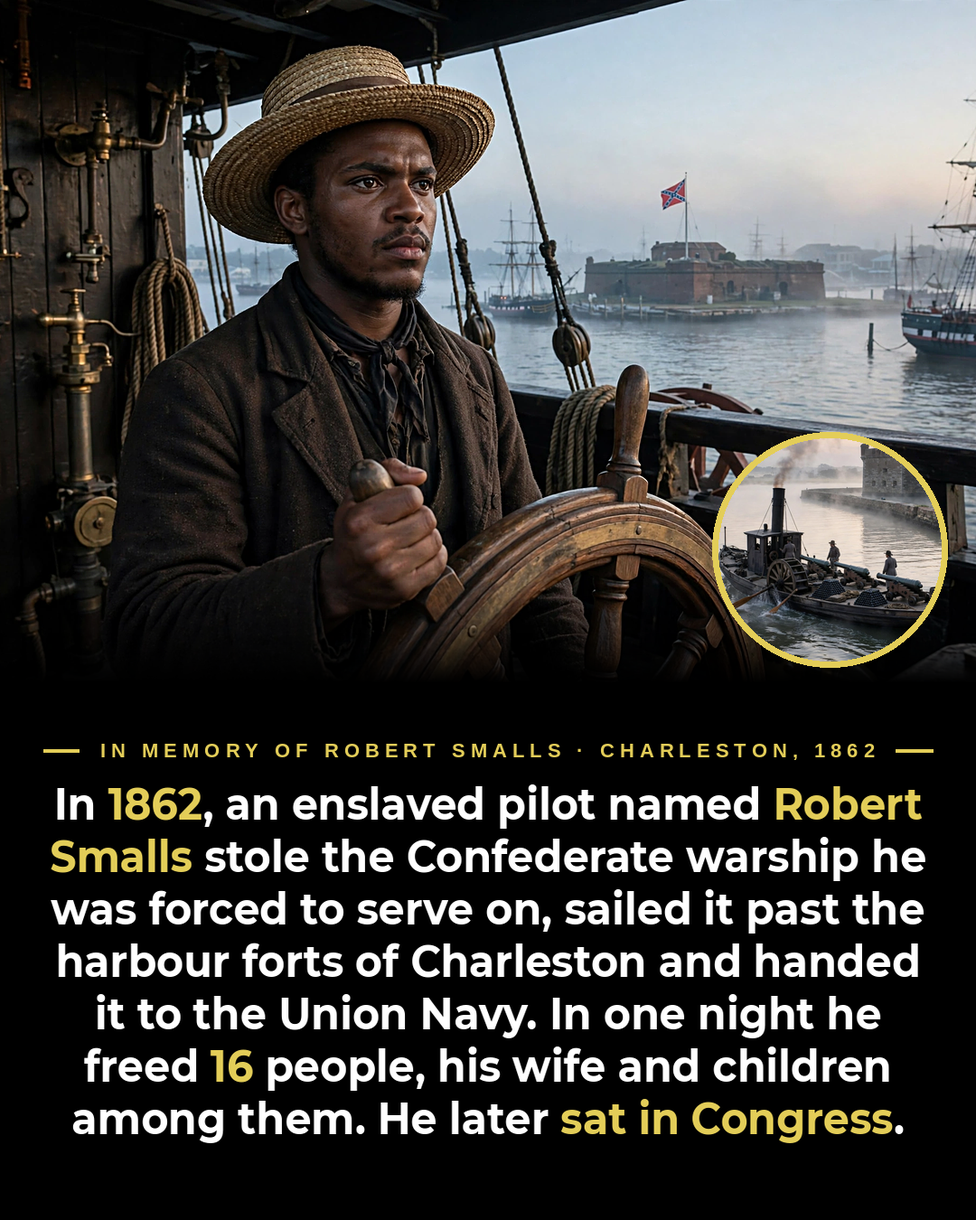
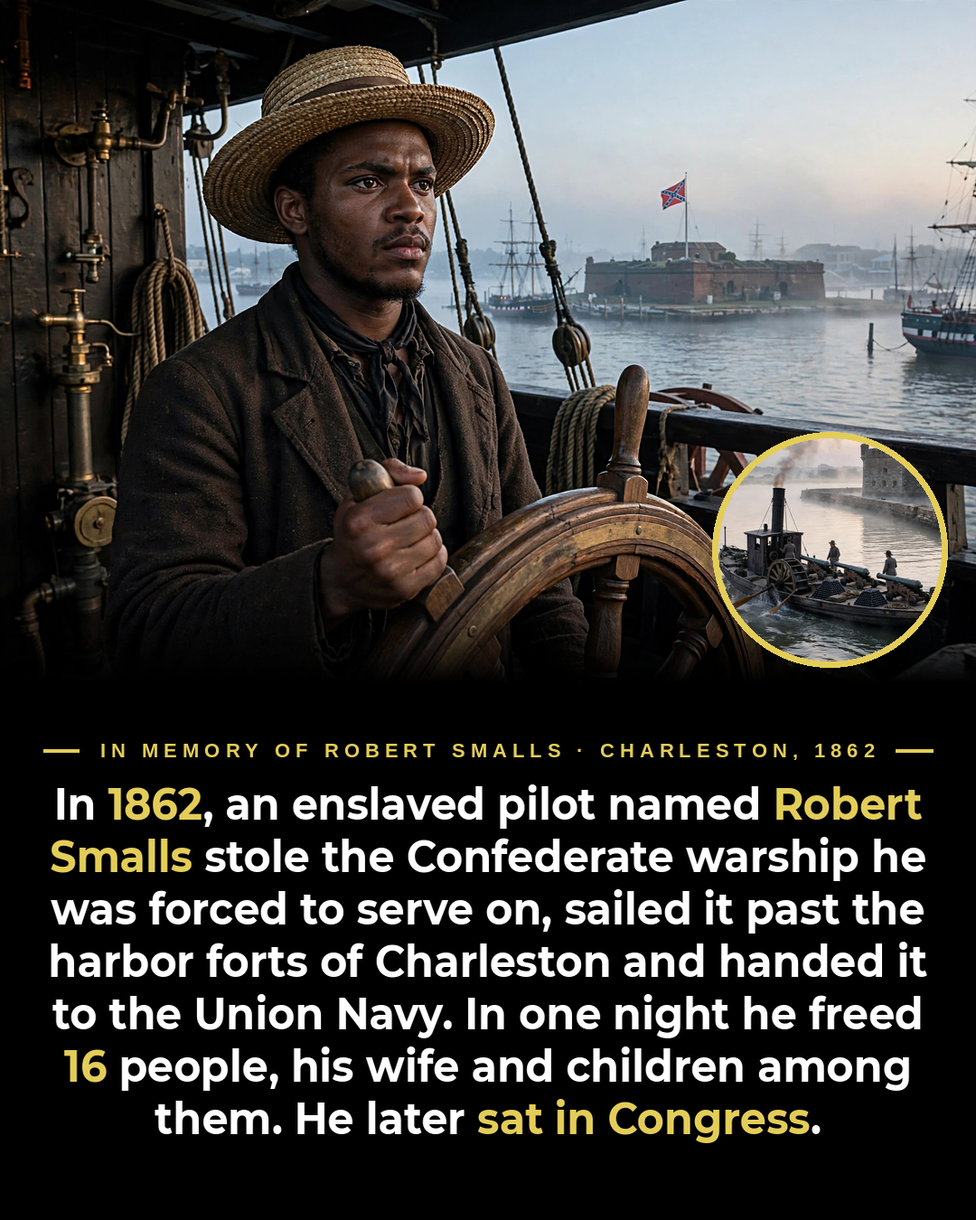
Short post texts, long captions removed

Changed region(s): [[0.0306, 0.7778, 0.9472, 0.9333]]

diff --git a/index.html b/index.html
@@ -173,7 +173,7 @@
 <div id="toast">Caption copied</div>
 
 <script>
-var POSTS = [{"id": "post-21", "file": "post-21.png", "title": "The Alamo, 1836", "story": "On the morning of 23 February 1836, lookouts on the walls of the Alamo mission in San Antonio saw dust on the horizon. General Antonio Lopez de Santa Anna had arrived with his Mexican army, and the siege of the Alamo had begun. Inside the old Spanish mission stood fewer than 200 Texian and Tejano volunteers under two young commanders, William Travis and James Bowie, and among them the famous frontiersman Davy Crockett, who had arrived from Tennessee with a dozen men.\n\nTravis knew no help was coming in time. On 24 February he wrote the letter that became one of the most famous in American history, addressed \"To the People of Texas and All Americans in the World\". He promised victory or death, and he asked for reinforcements. Only 32 men from the town of Gonzales managed to slip through the Mexican lines to join him.\n\nFor 13 days the Mexican guns pounded the crumbling walls. The defenders answered with their rifles, and by most accounts they killed or wounded 400 to 600 of Santa Anna's men. Then, before dawn on 6 March, the Mexican army stormed the walls in four columns. After repelling two attacks, the Texians were overwhelmed. Within an hour, every defender inside was dead, including Travis, Bowie and Crockett. The women and children were spared.\n\nSanta Anna believed the slaughter would crush the rebellion. He was wrong. The names of the dead became a battle cry, and six weeks later, on 21 April, Sam Houston's army charged the Mexican camp at San Jacinto shouting \"Remember the Alamo!\" In 18 minutes the battle was over, Santa Anna was captured, and Texas was free. The men who died at the Alamo had bought that victory with their lives."}, {"id": "post-22", "file": "post-22.png", "title": "Sacagawea and the Lewis and Clark Expedition, 1805", "story": "In the winter of 1804, at a trading post called Fort Mandan on the upper Missouri River, two American explorers made the best decision of their expedition. Meriwether Lewis and William Clark had been sent by President Thomas Jefferson to find a way across the continent to the Pacific Ocean, and they needed someone who could talk to the Shoshone people and buy horses for the crossing of the Rocky Mountains. They hired a French-Canadian fur trader named Toussaint Charbonneau, and with him came his young Shoshone wife, Sacagawea. She was about sixteen years old, and she was pregnant.\n\nOn 11 February 1805, Sacagawea gave birth to a baby boy, Jean Baptiste, whom the men nicknamed Little Pomp. Two months later, on 7 April, the expedition set out up the Missouri in canoes, and Sacagawea went with them, her baby strapped to her back. Over the months that followed she proved herself again and again. She found edible plants when the men were hungry, she made moccasins and clothing, and when a canoe overturned she calmly saved the journals and instruments while the men panicked. Because a woman and a baby travelled with the party, the tribes they met knew at once that this was not a war party, and they were welcomed instead of attacked.\n\nIn the mountains, her knowledge saved the expedition a second time. She recognised the country of her childhood, she found the Shoshone and persuaded them to sell horses, and she guided the party through the passes to the Pacific, which they reached in November 1805. They spent the winter at the coast and returned to Fort Mandan in August 1806, having travelled more than 7,000 miles in all. Sacagawea had carried her son about 4,500 of those miles. Without her, the expedition that mapped America might never have come home."}, {"id": "post-23", "file": "post-23.png", "title": "Desmond Doss at Hacksaw Ridge, 1945", "story": "He went to war refusing to carry a gun, and he saved 75 men in a single day.\n\nDesmond Doss was a skinny Seventh-day Adventist from Lynchburg, Virginia, who believed the commandment \"Thou shalt not kill\" applied to him even in uniform. He could have stayed home, because his shipyard job offered him a deferment, but he felt called to serve, so he enlisted as a medic, the one job where he could save lives instead of taking them.\n\nThe Army did not know what to do with him. In training, men threw shoes at him while he prayed, and officers tried to force him out. He would not touch a weapon and he would not work on his Saturday Sabbath, but he never complained and he never gave in.\n\nIn April 1945 his unit, the 307th Infantry, was ordered up a sheer 400-foot cliff on Okinawa called the Maeda Escarpment, known to the men as Hacksaw Ridge. At the top, Japanese fire cut the company to pieces and the order came to retreat. Everyone went down the cargo nets except Doss. He stayed on that fire-swept plateau alone with the wounded.\n\nFor the next twelve hours he crawled from man to man under shell and machine-gun fire, dragged each one to the cliff edge and lowered him to safety in a rope litter, one at a time. Between rescues he prayed the same prayer: \"Lord, please help me get one more.\" By nightfall he had brought down 75 men, including soldiers who had once mocked him.\n\nDays later he was badly wounded himself, and gave up his own stretcher to a man he believed was hurt worse.\n\nOn 12 October 1945, President Harry Truman placed the Medal of Honor around his neck. Doss was the first conscientious objector in American history to receive it. He had proved that a man does not need a weapon to be the bravest soldier on the field.\n\nHad you ever heard of the soldier who saved 75 men without firing a single shot?"}, {"id": "post-24", "file": "post-24.png", "title": "Robert Smalls Steals a Confederate Warship, 1862", "story": "He stole a Confederate warship before breakfast, and freed everyone he loved.\n\nRobert Smalls was born enslaved in Beaufort, South Carolina, in 1839. Sent to Charleston at twelve to hire out his labour, he kept just one dollar of the sixteen he earned, and he fell in love with the sea. By 1861 he was the most trusted pilot in Charleston Harbor, and he was still property. He and his wife Hannah had tried to buy their family's freedom, but the price of 800 dollars was far beyond what they could save.\n\nThen the Civil War gave him another way. Smalls was put to work aboard the Planter, a Confederate transport steamer carrying guns between the harbour forts. He learned every signal, every checkpoint, every channel. And he waited.\n\nIn the early hours of 13 May 1862, the ship's white officers broke the rules and spent the night ashore. Smalls put on the captain's straw hat, gathered the enslaved crew, and steamed quietly to another wharf, where Hannah, their children and the crew's families were hiding. Then he did the boldest thing of all: he sailed straight through the harbour, giving the correct whistle signals at every fort, including mighty Fort Sumter, whose guns never suspected a thing.\n\nOutside the harbour waited the Union blockade. Smalls struck the Confederate flags, raised a white bed sheet, and surrendered the Planter, with its guns, its ammunition and its code book, to the USS Onward. In one night, 16 enslaved people became free.\n\nThe North made him a hero. He met President Lincoln, piloted Union ships for the rest of the war, and in December 1863 took command of the Planter as the first Black captain of a United States vessel. After the war he bought the very house in Beaufort where he had been enslaved, served in the United States Congress, and wrote the South Carolina law that created the first free public school system in America.\n\nThe man they had owned ended up owning the house, and helping to run the country.\n\nWhich part of his story surprises you more, the stolen warship or the seat in Congress?"}, {"id": "post-25", "file": "post-25.png", "title": "Ruby Bridges Walks to School, 1960", "story": "She was six years old, and it took four federal marshals to walk her to school.\n\nOn the morning of 14 November 1960, Ruby Bridges put on her best white dress and walked up the steps of William Frantz Elementary School in New Orleans. She was the first Black child to attend an all-white elementary school in the South, and an angry crowd was waiting behind the barricades, shouting and waving signs. Ruby thought it was Mardi Gras.\n\nShe spent her first day sitting in the principal's office while white parents stormed in and pulled their own children out, one classroom after another, until the school was empty. On the second day, a young teacher from Boston named Barbara Henry took Ruby into an empty classroom, and for the entire school year that classroom held exactly two people. Every other teacher had refused to teach her.\n\nFor a year the marshals walked her past the same crowds every morning. One woman threatened to poison her, so Ruby was allowed to eat only food she brought from home. Another woman held up a Black doll in a tiny coffin. Ruby prayed on the school steps, not for herself, but for the crowd, because she said they needed it.\n\nHer family paid for that walk. Her father lost his job at the gas station. The local grocery store refused to sell them food. Her grandparents were thrown off the land they farmed in Mississippi. Through all of it, Ruby never missed a single day of school.\n\nThe next year the crowds were gone, the classrooms filled again, and Ruby simply went to school like any other child. Norman Rockwell turned her walk into one of the most famous paintings in America, The Problem We All Live With.\n\nShe grew up, raised four sons, and founded the Ruby Bridges Foundation to teach children tolerance. In 1960, the bravest person in New Orleans weighed about forty pounds and carried her own schoolbooks.\n\nWere you ever taught her story when you were in school?"}, {"id": "post-26", "file": "post-26.png", "title": "Alvin York in the Argonne Forest, 1918", "story": "\"Well, York,\" his general said, \"I hear you have captured the whole German army.\" York shook his head. \"No sir. I got only 132.\"\n\nAlvin York was a dirt-poor Tennessee farm boy, a hard-drinking brawler who found religion and was then drafted into a war he was not sure his faith allowed him to fight. His request to be excused from combat as a conscientious objector was denied, and after long talks with his captain and long nights with his Bible, he decided he would go.\n\nOn 8 October 1918, in the Argonne Forest in France, Corporal York was one of 17 men sent behind German lines to silence the machine guns that were shredding their regiment. The patrol surprised a group of Germans and took them prisoner, and then the hillside erupted. Machine-gun fire killed six Americans and wounded three, and suddenly York, a crack shot who had hunted turkeys in the Tennessee hills, was the senior man left standing.\n\nWhat he did next sounds invented. Standing in the open, he picked off the German gunners one by one, every time a head rose above the trench. When six Germans charged him with fixed bayonets, he drew his pistol and stopped all six. The German commander, who had emptied his own pistol at York without hitting him once, walked out and surrendered his entire position.\n\nYork and his seven surviving men marched 132 prisoners back to the American lines, collecting still more along the way. He had killed at least 25 enemy soldiers and silenced some 35 machine guns, and he had opened the way for his regiment to advance.\n\nHe was promoted to sergeant on the spot, and later received the Medal of Honor from General Pershing himself. Back home he stayed the same quiet man, using his fame to build a school for the mountain children of Tennessee.\n\nDo you believe one man really did all of that in a single morning?"}, {"id": "post-27", "file": "post-27.png", "title": "Charity Adams and the 6888th Battalion, 1945", "story": "Seventeen million letters were sitting in English warehouses, and some soldiers had not heard from home in two years.\n\nBy early 1945, the Army's mail system in Europe had collapsed under its own weight. Mountains of letters and parcels, an estimated 17 million pieces, were stacked to the rafters in Birmingham, addressed to men who kept moving with the front. Morale was sinking with every missing letter. The Army's answer was a brand-new unit that many of its own officers did not believe in: the 6888th Central Postal Directory Battalion, 855 Black women of the Women's Army Corps, commanded by a 26-year-old major from South Carolina named Charity Adams, the first Black woman officer in the Corps.\n\nThey were given six months to clear the backlog. Adams put her women on three shifts a day, seven days a week, working through the night in cold, dim warehouses. They built a card index of seven million names to untangle the thousands of soldiers who shared the same name, tracked down men who had been wounded, moved or killed, and sent the mail on its way. Their motto said everything: \"No mail, low morale.\"\n\nThey finished Birmingham in three months, half the time allowed. Then the Army sent them to Rouen, in France, where another mountain of undelivered mail was waiting, and they cleared that too.\n\nThere was no parade when they came home in 1946. The unit was quietly disbanded, and for decades almost nobody knew their names. Charity Adams rose to lieutenant colonel, the highest-ranking Black woman in the Army of her time, and spent the rest of her life in education and service.\n\nRecognition finally arrived: a monument at Fort Leavenworth, a Meritorious Unit Commendation in 2019, and the Congressional Gold Medal. The women who carried an army's heart in their hands had waited more than seventy years to be thanked.\n\nHad you ever heard of the 6888th before today?"}];
+var POSTS = [{"id": "post-21", "file": "post-21.png", "title": "The Alamo, 1836", "story": "On the morning of 23 February 1836, lookouts on the walls of the Alamo mission in San Antonio saw dust on the horizon. General Antonio Lopez de Santa Anna had arrived with his Mexican army, and the siege of the Alamo had begun. Inside the old Spanish mission stood fewer than 200 Texian and Tejano volunteers under two young commanders, William Travis and James Bowie, and among them the famous frontiersman Davy Crockett, who had arrived from Tennessee with a dozen men.\n\nTravis knew no help was coming in time. On 24 February he wrote the letter that became one of the most famous in American history, addressed \"To the People of Texas and All Americans in the World\". He promised victory or death, and he asked for reinforcements. Only 32 men from the town of Gonzales managed to slip through the Mexican lines to join him.\n\nFor 13 days the Mexican guns pounded the crumbling walls. The defenders answered with their rifles, and by most accounts they killed or wounded 400 to 600 of Santa Anna's men. Then, before dawn on 6 March, the Mexican army stormed the walls in four columns. After repelling two attacks, the Texians were overwhelmed. Within an hour, every defender inside was dead, including Travis, Bowie and Crockett. The women and children were spared.\n\nSanta Anna believed the slaughter would crush the rebellion. He was wrong. The names of the dead became a battle cry, and six weeks later, on 21 April, Sam Houston's army charged the Mexican camp at San Jacinto shouting \"Remember the Alamo!\" In 18 minutes the battle was over, Santa Anna was captured, and Texas was free. The men who died at the Alamo had bought that victory with their lives."}, {"id": "post-22", "file": "post-22.png", "title": "Sacagawea and the Lewis and Clark Expedition, 1805", "story": "In the winter of 1804, at a trading post called Fort Mandan on the upper Missouri River, two American explorers made the best decision of their expedition. Meriwether Lewis and William Clark had been sent by President Thomas Jefferson to find a way across the continent to the Pacific Ocean, and they needed someone who could talk to the Shoshone people and buy horses for the crossing of the Rocky Mountains. They hired a French-Canadian fur trader named Toussaint Charbonneau, and with him came his young Shoshone wife, Sacagawea. She was about sixteen years old, and she was pregnant.\n\nOn 11 February 1805, Sacagawea gave birth to a baby boy, Jean Baptiste, whom the men nicknamed Little Pomp. Two months later, on 7 April, the expedition set out up the Missouri in canoes, and Sacagawea went with them, her baby strapped to her back. Over the months that followed she proved herself again and again. She found edible plants when the men were hungry, she made moccasins and clothing, and when a canoe overturned she calmly saved the journals and instruments while the men panicked. Because a woman and a baby travelled with the party, the tribes they met knew at once that this was not a war party, and they were welcomed instead of attacked.\n\nIn the mountains, her knowledge saved the expedition a second time. She recognised the country of her childhood, she found the Shoshone and persuaded them to sell horses, and she guided the party through the passes to the Pacific, which they reached in November 1805. They spent the winter at the coast and returned to Fort Mandan in August 1806, having travelled more than 7,000 miles in all. Sacagawea had carried her son about 4,500 of those miles. Without her, the expedition that mapped America might never have come home."}, {"id": "post-23", "file": "post-23.png", "title": "Desmond Doss at Hacksaw Ridge, 1945", "story": "He refused to carry a gun. Then he saved 75 men in one day. Desmond Doss stayed alone on a cliff in Okinawa while everyone else retreated, dragging wounded men to the edge and lowering them down by rope, one by one. He never fired a single shot. Had you ever heard of him?"}, {"id": "post-24", "file": "post-24.png", "title": "Robert Smalls Steals a Confederate Warship, 1862", "story": "He stole a Confederate warship before breakfast and freed everyone he loved. In 1862, enslaved pilot Robert Smalls took the Planter, sailed it past Fort Sumter, and handed it to the Union Navy. Sixteen people woke up free that morning. He later sat in Congress. Which part surprises you more?"}, {"id": "post-25", "file": "post-25.png", "title": "Ruby Bridges Walks to School, 1960", "story": "She was six years old, and it took four federal marshals to walk her to school. In 1960, Ruby Bridges walked past screaming crowds into an empty school in New Orleans and learned alone for a whole year. She never missed a single day. Were you ever taught her story in school?"}, {"id": "post-26", "file": "post-26.png", "title": "Alvin York in the Argonne Forest, 1918", "story": "\"I hear you captured the whole German army.\" \"No sir. I got only 132.\" In 1918, Tennessee farm boy Alvin York stood alone against a hill of machine guns in the Argonne Forest, and 132 enemy soldiers surrendered to him. Do you believe one man really did that in a single morning?"}, {"id": "post-27", "file": "post-27.png", "title": "Charity Adams and the 6888th Battalion, 1945", "story": "17 million letters were stuck in warehouses, and some soldiers had not heard from home in two years. In 1945, 855 Black women of the 6888th Battalion, led by Major Charity Adams, cleared the whole backlog in three months, half the time allowed. Had you ever heard of them?"}];
 var LS_KEY = 'us-history-tool-v1';
 var state = { done: {}, copies: {}, deleted: {} };
 

diff --git a/texts.html b/texts.html
@@ -105,7 +105,7 @@
 <div id="toast">Text copied</div>
 
 <script>
-var TEXTS = [{"id": "post-23", "title": "Desmond Doss at Hacksaw Ridge, 1945", "story": "He went to war refusing to carry a gun, and he saved 75 men in a single day.\n\nDesmond Doss was a skinny Seventh-day Adventist from Lynchburg, Virginia, who believed the commandment \"Thou shalt not kill\" applied to him even in uniform. He could have stayed home, because his shipyard job offered him a deferment, but he felt called to serve, so he enlisted as a medic, the one job where he could save lives instead of taking them.\n\nThe Army did not know what to do with him. In training, men threw shoes at him while he prayed, and officers tried to force him out. He would not touch a weapon and he would not work on his Saturday Sabbath, but he never complained and he never gave in.\n\nIn April 1945 his unit, the 307th Infantry, was ordered up a sheer 400-foot cliff on Okinawa called the Maeda Escarpment, known to the men as Hacksaw Ridge. At the top, Japanese fire cut the company to pieces and the order came to retreat. Everyone went down the cargo nets except Doss. He stayed on that fire-swept plateau alone with the wounded.\n\nFor the next twelve hours he crawled from man to man under shell and machine-gun fire, dragged each one to the cliff edge and lowered him to safety in a rope litter, one at a time. Between rescues he prayed the same prayer: \"Lord, please help me get one more.\" By nightfall he had brought down 75 men, including soldiers who had once mocked him.\n\nDays later he was badly wounded himself, and gave up his own stretcher to a man he believed was hurt worse.\n\nOn 12 October 1945, President Harry Truman placed the Medal of Honor around his neck. Doss was the first conscientious objector in American history to receive it. He had proved that a man does not need a weapon to be the bravest soldier on the field.\n\nHad you ever heard of the soldier who saved 75 men without firing a single shot?"}, {"id": "post-24", "title": "Robert Smalls Steals a Confederate Warship, 1862", "story": "He stole a Confederate warship before breakfast, and freed everyone he loved.\n\nRobert Smalls was born enslaved in Beaufort, South Carolina, in 1839. Sent to Charleston at twelve to hire out his labour, he kept just one dollar of the sixteen he earned, and he fell in love with the sea. By 1861 he was the most trusted pilot in Charleston Harbor, and he was still property. He and his wife Hannah had tried to buy their family's freedom, but the price of 800 dollars was far beyond what they could save.\n\nThen the Civil War gave him another way. Smalls was put to work aboard the Planter, a Confederate transport steamer carrying guns between the harbour forts. He learned every signal, every checkpoint, every channel. And he waited.\n\nIn the early hours of 13 May 1862, the ship's white officers broke the rules and spent the night ashore. Smalls put on the captain's straw hat, gathered the enslaved crew, and steamed quietly to another wharf, where Hannah, their children and the crew's families were hiding. Then he did the boldest thing of all: he sailed straight through the harbour, giving the correct whistle signals at every fort, including mighty Fort Sumter, whose guns never suspected a thing.\n\nOutside the harbour waited the Union blockade. Smalls struck the Confederate flags, raised a white bed sheet, and surrendered the Planter, with its guns, its ammunition and its code book, to the USS Onward. In one night, 16 enslaved people became free.\n\nThe North made him a hero. He met President Lincoln, piloted Union ships for the rest of the war, and in December 1863 took command of the Planter as the first Black captain of a United States vessel. After the war he bought the very house in Beaufort where he had been enslaved, served in the United States Congress, and wrote the South Carolina law that created the first free public school system in America.\n\nThe man they had owned ended up owning the house, and helping to run the country.\n\nWhich part of his story surprises you more, the stolen warship or the seat in Congress?"}, {"id": "post-25", "title": "Ruby Bridges Walks to School, 1960", "story": "She was six years old, and it took four federal marshals to walk her to school.\n\nOn the morning of 14 November 1960, Ruby Bridges put on her best white dress and walked up the steps of William Frantz Elementary School in New Orleans. She was the first Black child to attend an all-white elementary school in the South, and an angry crowd was waiting behind the barricades, shouting and waving signs. Ruby thought it was Mardi Gras.\n\nShe spent her first day sitting in the principal's office while white parents stormed in and pulled their own children out, one classroom after another, until the school was empty. On the second day, a young teacher from Boston named Barbara Henry took Ruby into an empty classroom, and for the entire school year that classroom held exactly two people. Every other teacher had refused to teach her.\n\nFor a year the marshals walked her past the same crowds every morning. One woman threatened to poison her, so Ruby was allowed to eat only food she brought from home. Another woman held up a Black doll in a tiny coffin. Ruby prayed on the school steps, not for herself, but for the crowd, because she said they needed it.\n\nHer family paid for that walk. Her father lost his job at the gas station. The local grocery store refused to sell them food. Her grandparents were thrown off the land they farmed in Mississippi. Through all of it, Ruby never missed a single day of school.\n\nThe next year the crowds were gone, the classrooms filled again, and Ruby simply went to school like any other child. Norman Rockwell turned her walk into one of the most famous paintings in America, The Problem We All Live With.\n\nShe grew up, raised four sons, and founded the Ruby Bridges Foundation to teach children tolerance. In 1960, the bravest person in New Orleans weighed about forty pounds and carried her own schoolbooks.\n\nWere you ever taught her story when you were in school?"}, {"id": "post-26", "title": "Alvin York in the Argonne Forest, 1918", "story": "\"Well, York,\" his general said, \"I hear you have captured the whole German army.\" York shook his head. \"No sir. I got only 132.\"\n\nAlvin York was a dirt-poor Tennessee farm boy, a hard-drinking brawler who found religion and was then drafted into a war he was not sure his faith allowed him to fight. His request to be excused from combat as a conscientious objector was denied, and after long talks with his captain and long nights with his Bible, he decided he would go.\n\nOn 8 October 1918, in the Argonne Forest in France, Corporal York was one of 17 men sent behind German lines to silence the machine guns that were shredding their regiment. The patrol surprised a group of Germans and took them prisoner, and then the hillside erupted. Machine-gun fire killed six Americans and wounded three, and suddenly York, a crack shot who had hunted turkeys in the Tennessee hills, was the senior man left standing.\n\nWhat he did next sounds invented. Standing in the open, he picked off the German gunners one by one, every time a head rose above the trench. When six Germans charged him with fixed bayonets, he drew his pistol and stopped all six. The German commander, who had emptied his own pistol at York without hitting him once, walked out and surrendered his entire position.\n\nYork and his seven surviving men marched 132 prisoners back to the American lines, collecting still more along the way. He had killed at least 25 enemy soldiers and silenced some 35 machine guns, and he had opened the way for his regiment to advance.\n\nHe was promoted to sergeant on the spot, and later received the Medal of Honor from General Pershing himself. Back home he stayed the same quiet man, using his fame to build a school for the mountain children of Tennessee.\n\nDo you believe one man really did all of that in a single morning?"}, {"id": "post-27", "title": "Charity Adams and the 6888th Battalion, 1945", "story": "Seventeen million letters were sitting in English warehouses, and some soldiers had not heard from home in two years.\n\nBy early 1945, the Army's mail system in Europe had collapsed under its own weight. Mountains of letters and parcels, an estimated 17 million pieces, were stacked to the rafters in Birmingham, addressed to men who kept moving with the front. Morale was sinking with every missing letter. The Army's answer was a brand-new unit that many of its own officers did not believe in: the 6888th Central Postal Directory Battalion, 855 Black women of the Women's Army Corps, commanded by a 26-year-old major from South Carolina named Charity Adams, the first Black woman officer in the Corps.\n\nThey were given six months to clear the backlog. Adams put her women on three shifts a day, seven days a week, working through the night in cold, dim warehouses. They built a card index of seven million names to untangle the thousands of soldiers who shared the same name, tracked down men who had been wounded, moved or killed, and sent the mail on its way. Their motto said everything: \"No mail, low morale.\"\n\nThey finished Birmingham in three months, half the time allowed. Then the Army sent them to Rouen, in France, where another mountain of undelivered mail was waiting, and they cleared that too.\n\nThere was no parade when they came home in 1946. The unit was quietly disbanded, and for decades almost nobody knew their names. Charity Adams rose to lieutenant colonel, the highest-ranking Black woman in the Army of her time, and spent the rest of her life in education and service.\n\nRecognition finally arrived: a monument at Fort Leavenworth, a Meritorious Unit Commendation in 2019, and the Congressional Gold Medal. The women who carried an army's heart in their hands had waited more than seventy years to be thanked.\n\nHad you ever heard of the 6888th before today?"}];
+var TEXTS = [{"id": "post-23", "title": "Desmond Doss at Hacksaw Ridge, 1945", "story": "He refused to carry a gun. Then he saved 75 men in one day. Desmond Doss stayed alone on a cliff in Okinawa while everyone else retreated, dragging wounded men to the edge and lowering them down by rope, one by one. He never fired a single shot. Had you ever heard of him?"}, {"id": "post-24", "title": "Robert Smalls Steals a Confederate Warship, 1862", "story": "He stole a Confederate warship before breakfast and freed everyone he loved. In 1862, enslaved pilot Robert Smalls took the Planter, sailed it past Fort Sumter, and handed it to the Union Navy. Sixteen people woke up free that morning. He later sat in Congress. Which part surprises you more?"}, {"id": "post-25", "title": "Ruby Bridges Walks to School, 1960", "story": "She was six years old, and it took four federal marshals to walk her to school. In 1960, Ruby Bridges walked past screaming crowds into an empty school in New Orleans and learned alone for a whole year. She never missed a single day. Were you ever taught her story in school?"}, {"id": "post-26", "title": "Alvin York in the Argonne Forest, 1918", "story": "\"I hear you captured the whole German army.\" \"No sir. I got only 132.\" In 1918, Tennessee farm boy Alvin York stood alone against a hill of machine guns in the Argonne Forest, and 132 enemy soldiers surrendered to him. Do you believe one man really did that in a single morning?"}, {"id": "post-27", "title": "Charity Adams and the 6888th Battalion, 1945", "story": "17 million letters were stuck in warehouses, and some soldiers had not heard from home in two years. In 1945, 855 Black women of the 6888th Battalion, led by Major Charity Adams, cleared the whole backlog in three months, half the time allowed. Had you ever heard of them?"}];
 var LS_KEY = 'us-history-texts-v1';
 var deleted = {};
 
